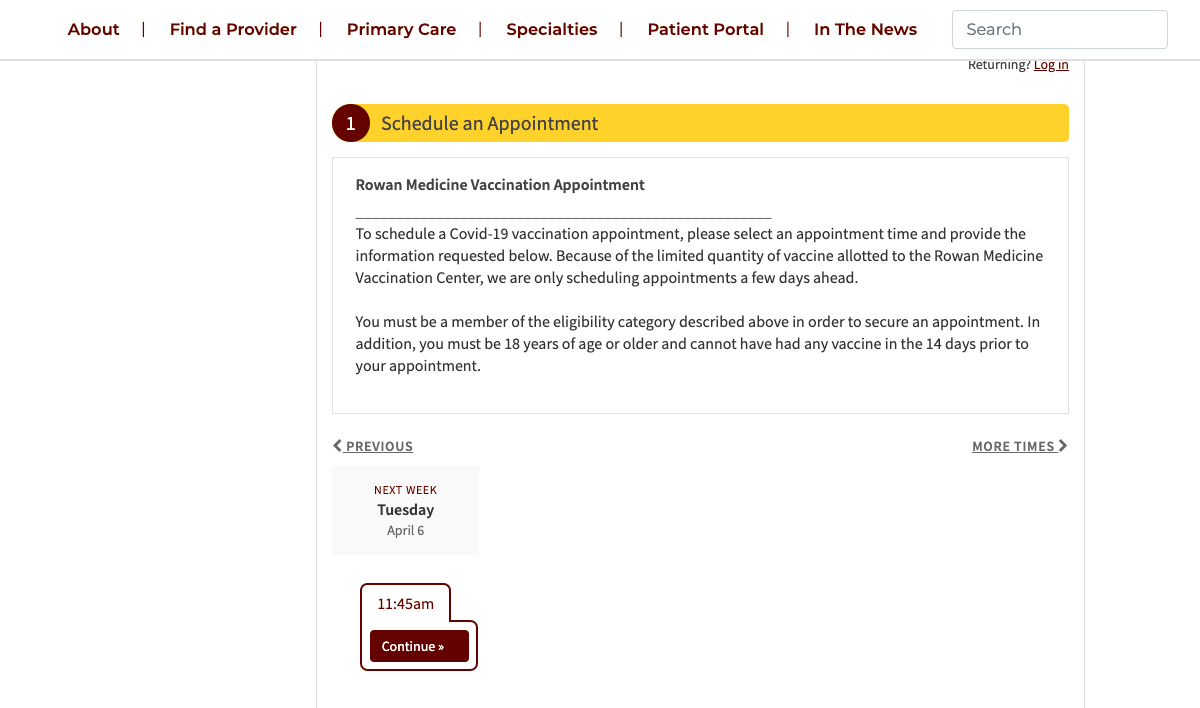
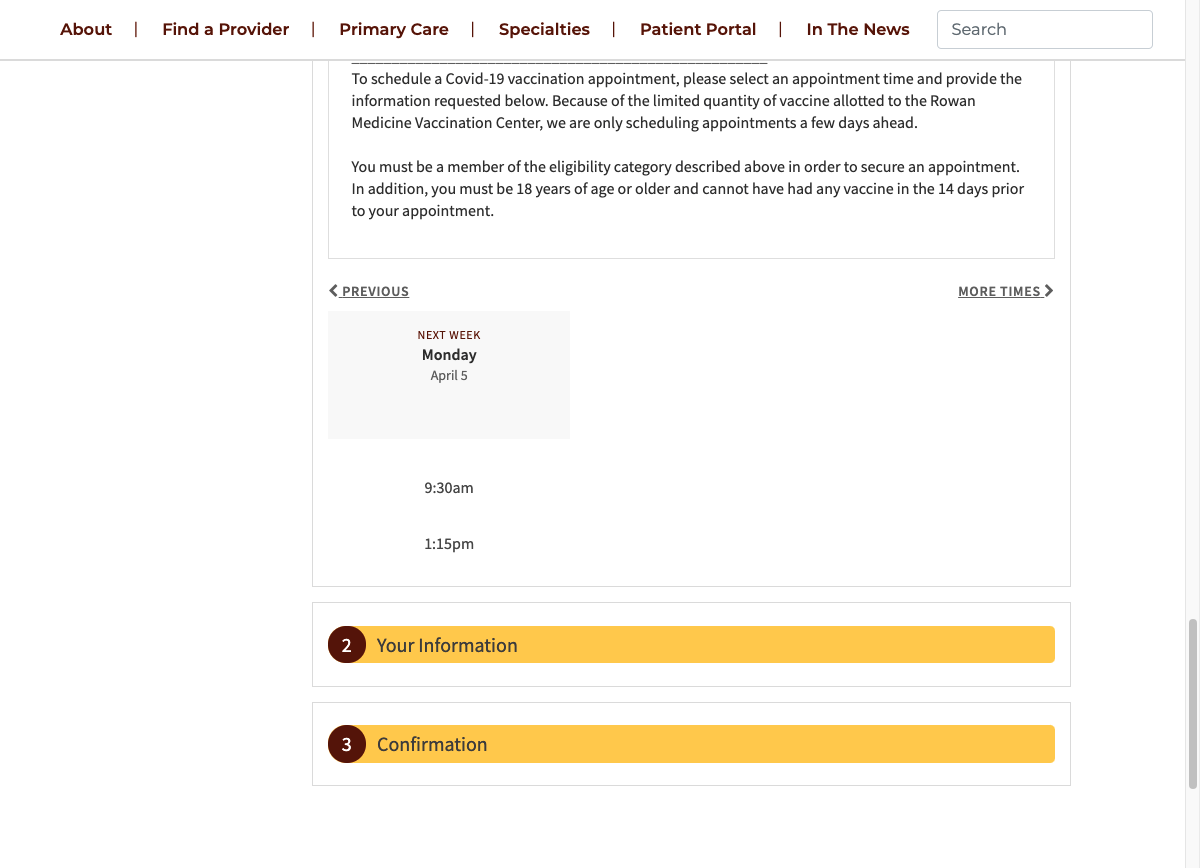
Monmouth Freehold bot is running

diff --git a/MonmouthFreeholdBot.py b/MonmouthFreeholdBot.py
@@ -1,0 +1,72 @@
+from selenium import webdriver
+from selenium.webdriver.chrome.options import Options
+from selenium.webdriver.common.by import By
+from selenium.webdriver.support.ui import WebDriverWait
+from selenium.webdriver.support import expected_conditions as EC
+from playsound import playsound
+import tweepy
+import random
+import time
+import json
+
+key_file = 'keys.json'
+with open(key_file) as f:
+    keys = json.load(f)
+
+auth = tweepy.OAuthHandler(keys["consumer_key"], keys["consumer_secret"])
+auth.set_access_token(keys["access_token"], keys["access_token_secret"])
+api = tweepy.API(auth)
+
+url = 'https://outlook.office365.com/owa/calendar/MonmouthCountyCOVID19Vaccination@mcsonj.org/bookings/?fbclid=IwAR1gEO6Qrr7GKlf64fNFHu2F9q_Vbdmorm_2IMcigkLIsLfWM-QeM7mfD0o'
+
+chrome_options = Options()
+chrome_options.add_argument('--disable-blink-features=AutomationControlled')
+chrome_options.add_experimental_option("excludeSwitches", ["enable-automation"])
+chrome_options.add_experimental_option('useAutomationExtension', False)
+driver = webdriver.Chrome(options=chrome_options,executable_path='Drivers/chromedriver')
+
+Tweet_Timer = 0
+
+print("Searching for appointments...")
+while True:
+    try:
+        driver.delete_all_cookies()
+        driver.get(url)
+        time.sleep(random.uniform(1.4,2.3))
+    except:
+        time.sleep(random.uniform(120,150))
+        print("URL Did not load.")
+        continue
+
+    try:
+        radio_btn = driver.find_element_by_xpath('//*[@id="mainContainer"]/div/form/div[5]/div/ul/li[1]')
+        radio_btn.click()
+        time.sleep(random.uniform(1.4,2.3))
+
+        numApts = 0
+        while True:
+            change_month = driver.find_element_by_xpath('//*[@id="mainContainer"]/div/form/div[6]/div[1]/div/div/div[1]/div[2]')
+            if change_month.get_attribute("class") == 'navigator focusable disabled':
+                break
+
+            calendar = driver.find_element_by_xpath('//*[@id="mainContainer"]/div/form/div[6]/div[1]/div/div/div[3]')
+            dates = calendar.find_elements_by_tag_name('div')
+            for x in dates:
+                if x.get_attribute("class") != 'date empty' and x.get_attribute("class") != 'date circle not-bookable':
+                    numApts += 1
+
+            change_month.click()
+
+        if numApts > 0:
+            driver.get_screenshot_as_file("Screenshots/MonmouthFreeholdCapture.png")
+            status = 'Monmouth County (Freehold):  {0} appointment(s) open at this link https://outlook.office365.com/owa/calendar/MonmouthCountyCOVID19Vaccination@mcsonj.org/bookings/?fbclid=IwAR1gEO6Qrr7GKlf64fNFHu2F9q_Vbdmorm_2IMcigkLIsLfWM-QeM7mfD0o\n\n Double check eligibility first.'.format(numApts)
+            imagePath = "Screenshots/RowanCapture.png"
+
+            if time.time() - Tweet_Timer > 270 or Tweet_Timer == 0:
+                api.update_with_media(imagePath, status)
+                print('{0} Appointment(s) found.'.format(numApts))
+                Tweet_Timer = time.time()
+
+    except:
+        continue
+        

diff --git a/RowanBot.py b/RowanBot.py
@@ -20,8 +20,6 @@ api = tweepy.API(auth)
 url = "https://rowanmedicine.com/vaccine/registration.html"
 
 chrome_options = Options()
-#chrome_options.add_argument('--headless')
-#chrome_options.add_argument("--window-size=1200,824")
 chrome_options.add_argument('--disable-blink-features=AutomationControlled')
 chrome_options.add_experimental_option("excludeSwitches", ["enable-automation"])
 chrome_options.add_experimental_option('useAutomationExtension', False)
@@ -49,21 +47,21 @@ while True:
         )
         
     except: # Portal is open
-        print("portal open")
         time.sleep(random.uniform(1.2,2.3))
 
         # Scroll to appt table and screenshot for tweet
-        pageBtn = driver.find_element_by_xpath('//*[@id="calendar-prev-next"]')   
+        pageBtn = driver.find_element_by_xpath('//*[@id="step-pick-appointment"]/div[3]')   
         driver.execute_script("arguments[0].scrollIntoView()", pageBtn)
 
         driver.get_screenshot_as_file("Screenshots/RowanCapture.png")
+        numApts = len(driver.find_elements_by_class_name('time-selection'))
 
-        status = "Rowan: Portal is open at this link https://rowanmedicine.com/vaccine/registration.html"
+        status = 'Rowan Medicine:  {0} appointment(s) open at this link https://rowanmedicine.com/vaccine/registration.html'.format(numApts)
         imagePath = "Screenshots/RowanCapture.png"
 
-        print("Appointment(s) found.")
-        # TODO uncomment once we have it fully working
-        api.update_with_media(imagePath, status)
+        if time.time() - Tweet_Timer > 270 or Tweet_Timer == 0:
+            api.update_with_media(imagePath, status)
+            print('{0} Appointment(s) found.'.format(numApts))
+            Tweet_Timer = time.time()
 
-        print(len(driver.find_elements_by_class_name('time-selection')))
-        break
+        continue
